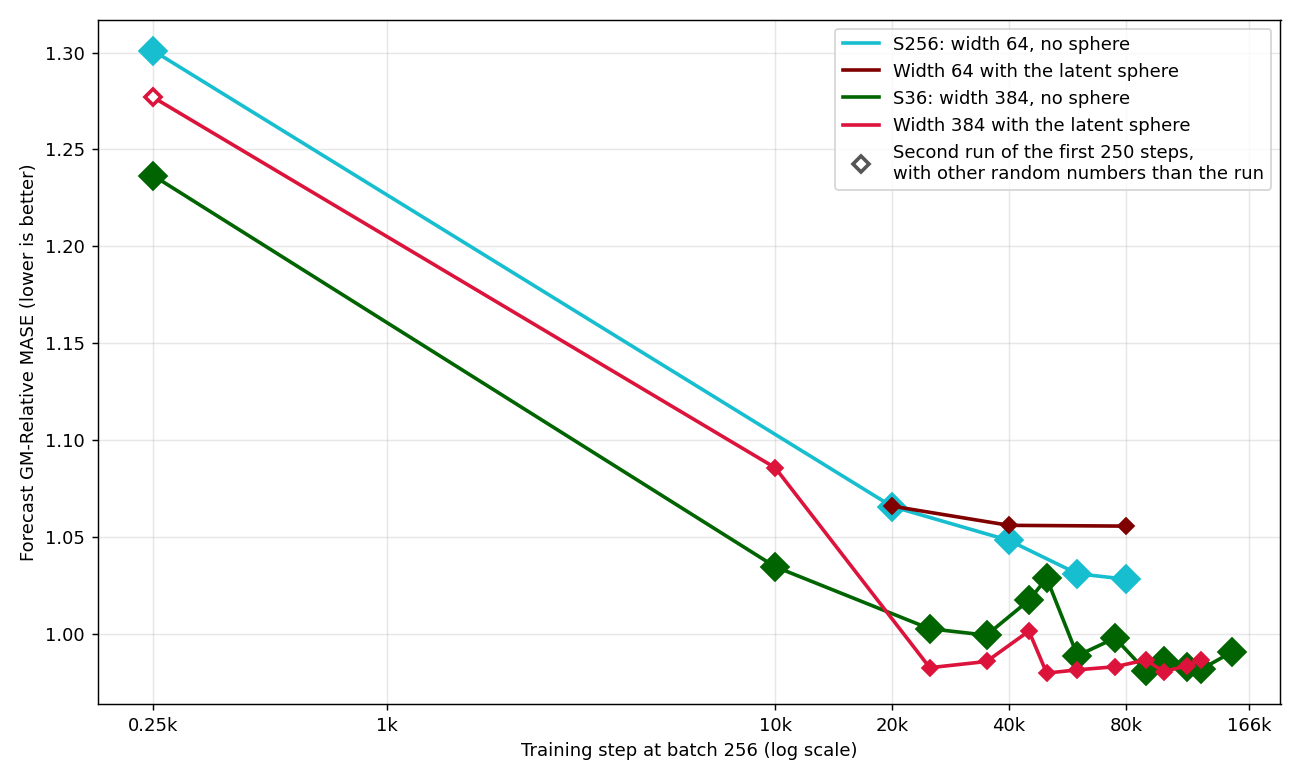
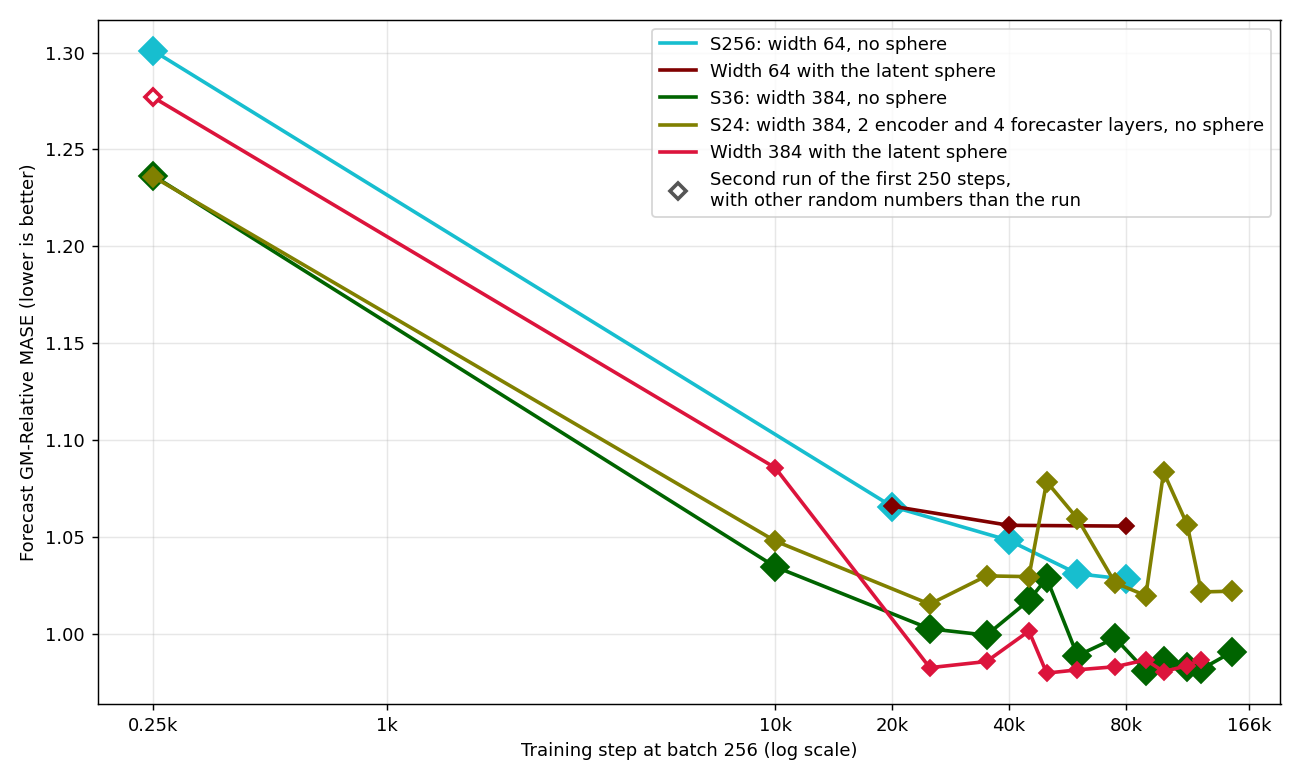
freq_family report: S24 in the figure of the batch-256 runs (sphere_compare)

diff --git a/reports/2026-10-10_frequency_family_head/scripts/plot_sphere_compare.py b/reports/2026-10-10_frequency_family_head/scripts/plot_sphere_compare.py
@@ -2,7 +2,9 @@
 contrastive-forecasting #453) and of the same runs without it, at batch 256 (the user, 11-06: "the sphere and
 non-sphere and how they compare to each other"): width 64 to 80k steps and width 384 to 166k steps. The scores
 of the sphere runs use the head path of #454. The points come from results/grid40k_gm_points.tsv and
-results/ss256_gm_points.tsv (arm, stop k, score; stop 0.25: the save at 250 steps).
+results/ss256_gm_points.tsv (arm, stop k, score; stop 0.25: the save at 250 steps). S24 (S36 with 2 encoder and
+4 forecaster layers, no sphere) is in it too (the user, 11-08: "It's about seeing the specific one we're training,
+so, yeah, you need to add it here").
 
 Usage: python3 plot_sphere_compare.py
 """
@@ -23,6 +25,7 @@ RUNS = [
     ("g80b_lr1em3_tau99995_bs256_rep01_sigfix_ss_rollfix", "S256: width 64, no sphere", "#17becf", 11),
     ("g80b_lr1em3_tau99995_bs256_rep01_sigfix_ss_sphere_rollfix", "Width 64 with the latent sphere", "#800000", 6),
     ("grn_ema099995_f6_rep01_ss256", "S36: width 384, no sphere", "#006400", 11),
+    ("grn_ema099995_e2f4_rep01_ss256", "S24: width 384, 2 encoder and 4 forecaster layers, no sphere", "#808000", 8),
     ("grn_ema099995_f6_rep01_ss256_sphere", "Width 384 with the latent sphere", "#dc143c", 6),
 ]
 # A point of a second run of the first 250 steps with other random numbers than the run (torch 2.8.0 on

diff --git a/reports/2026-10-10_frequency_family_head/frequency_family_head.md b/reports/2026-10-10_frequency_family_head/frequency_family_head.md
@@ -168,9 +168,10 @@ From 40k to 80k, the score of the run with the sphere changes by 0.0004, and the
 With the old head path, it got 1.0691 at 20k and 1.0610 at 40k.
 The heatmap row gives the 40k and 80k scores of the fixed head path.
 
-![Forecast with and without the latent sphere](plots/sphere_compare.png)
+![Forecast of the batch-256 runs, with and without the latent sphere](plots/sphere_compare.png)
 
 The figure compares the runs with the latent sphere and the same runs without it, at batch 256, with the scores of the fixed head path only: width 64 to 80k steps, and width 384 (S36) to 166k steps.
+It also shows S24 (olive), S36 with 2 encoder and 4 forecaster layers.
 The sphere run of width 384 gets 1.2769 after 250 steps and 1.0856 at 10k (short 0.9513, medium 1.2997, long 1.2817).
 S36 gets 1.2365 and 1.0345 (short 0.9384, medium 1.1893, long 1.1616), then 1.0025 at 25k, 0.9992 at 35k, 1.0172 at 45k, 1.0286 at 50k, 0.9886 at 60k, 0.9977 at 75k, 0.9807 at 90k, 0.9858 at 100k, 0.9826 at 115k, 0.9816 at 125k and 0.9905 at 150k.
 At 10k, the sphere run is 0.0511 higher, mostly on the medium and long horizons.
